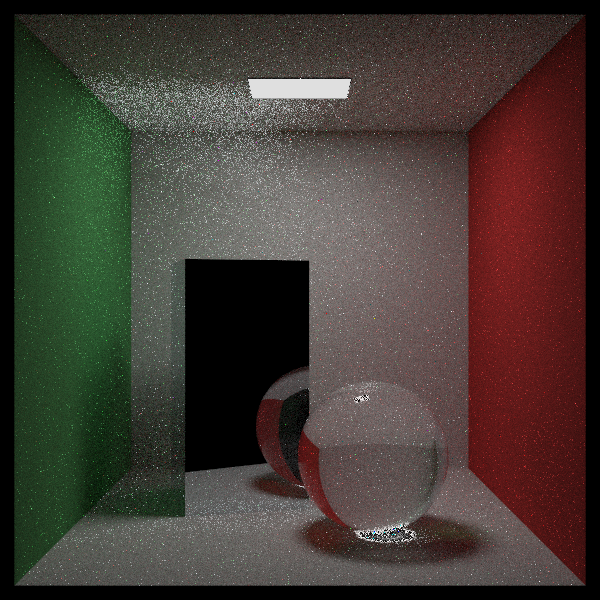
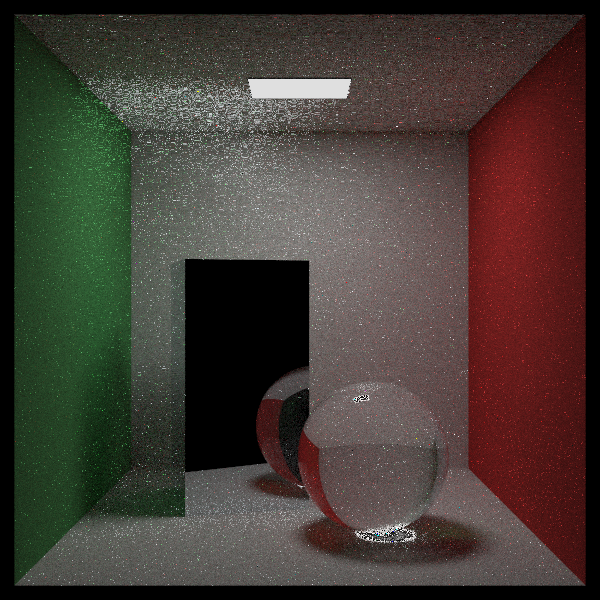
added multithreading

diff --git a/scene.h b/scene.h
@@ -2,6 +2,7 @@
 #define SCENE_H
 
 #include <thread>
+#include <mutex>
 #include "rtweekend.h"
 #include "camera.h"
 #include "hittable_list.h"
@@ -14,29 +15,38 @@ class scene {
         const int image_height = static_cast<int>(image_width/aspect_ratio);
         unsigned char* img = new unsigned char[image_width * image_height * 3];
         cam.initialize(aspect_ratio);
-        // std::cout << "P3\n" << image_width << ' ' << image_height << "\n255\n";
         int sqrt_spp = int(sqrt(samples_per_pixel));
-        for (int j = 0; j < image_height; ++j) {
-            // std::clog << "\rScanlines remaining: " << (image_height - j) << ' ' << std::flush;
-            for (int i = 0; i < image_width; ++i) {
-                color pixel_color(0, 0, 0);
-                for (int s_j = 0; s_j < sqrt_spp; ++s_j) {
-                    for (int s_i = 0; s_i < sqrt_spp; ++s_i) {
-                        auto s = (i + (s_i + random_double()) / sqrt_spp) / (image_width - 1);
-                        auto t = (j + (s_j + random_double()) / sqrt_spp) / (image_height - 1);
-                        ray r = cam.get_ray(s, t);
-                        pixel_color += ray_color(r, max_depth);
+        int n_threads = std::thread::hardware_concurrency();
+        std::vector<std::thread> threads;
+        std::mutex cout_mutex;
+        for (int k = 0; k < n_threads; k++) {
+            threads.push_back(std::thread([&, k]() {
+                cout_mutex.lock();
+                std::cout << "Thread " << k << " started" << std::endl;
+                cout_mutex.unlock();
+                for (int j = 0; j < image_height; ++j) {
+                    for (int i = k; i < image_width; i += n_threads) {
+                        color pixel_color(0, 0, 0);
+                        for (int s_j = 0; s_j < sqrt_spp; ++s_j) {
+                            for (int s_i = 0; s_i < sqrt_spp; ++s_i) {
+                                auto s = (i + (s_i + random_double()) / sqrt_spp) / (image_width - 1);
+                                auto t = (j + (s_j + random_double()) / sqrt_spp) / (image_height - 1);
+                                ray r = cam.get_ray(s, t);
+                                pixel_color += ray_color(r, max_depth);
+                            }
+                        }
+                        // write_color(std::cout, pixel_color, samples_per_pixel);
+                        for (int c = 0; c < 3; ++c) {
+                            if (pixel_color[c] != pixel_color[c]) pixel_color[c] = 0.0;
+                            img[(j * image_width + i) * 3 + c] = int(255.999 * sqrt(pixel_color[c] / samples_per_pixel));
+                        }
                     }
                 }
-                // write_color(std::cout, pixel_color, samples_per_pixel);
-                for (int c = 0; c < 3; ++c) {
-                    if (pixel_color[c] != pixel_color[c]) pixel_color[c] = 0.0;
-                    img[(j * image_width + i) * 3 + c] = int(255.999 * sqrt(pixel_color[c] / samples_per_pixel));
-                }
-            }
+                std::cout << "Thread " << k << " ended" << std::endl;
+            }));
         }
+        for (auto& t : threads) t.join();
         stbi_write_png("image.png", image_width, image_height, 3, img, image_width * 3);
-        // std::clog << "\rDone.                 \n";
     }
 
   public:
@@ -46,7 +56,7 @@ class scene {
 
     double aspect_ratio = 1.0;
     int image_width = 100;
-    int samples_per_pixel = 10;
+    int samples_per_pixel = 100;
     int max_depth = 20;
     color background = color(0,0,0);
 

diff --git a/main.cc b/main.cc
@@ -9,8 +9,8 @@
 // along with this software. If not, see <http://creativecommons.org/publicdomain/zero/1.0/>.
 //==============================================================================================
 
+#include <chrono>
 #include "rtweekend.h"
-
 #include "camera.h"
 #include "color.h"
 #include "constant_medium.h"
@@ -71,7 +71,10 @@ void cornell_box(scene& scene_desc) {
 }
 
 int main() {
+    auto start = std::chrono::steady_clock::now();
     scene scene_desc;
     cornell_box(scene_desc);
+    std::cout << "World generation: " << std::chrono::duration<double, std::milli>(std::chrono::steady_clock::now() - start).count() << " ms" << std::endl;
     scene_desc.render();
+    std::cout << "Total time: " << std::chrono::duration <double, std::milli>(std::chrono::steady_clock::now() - start).count() << " ms" << std::endl;
 }
